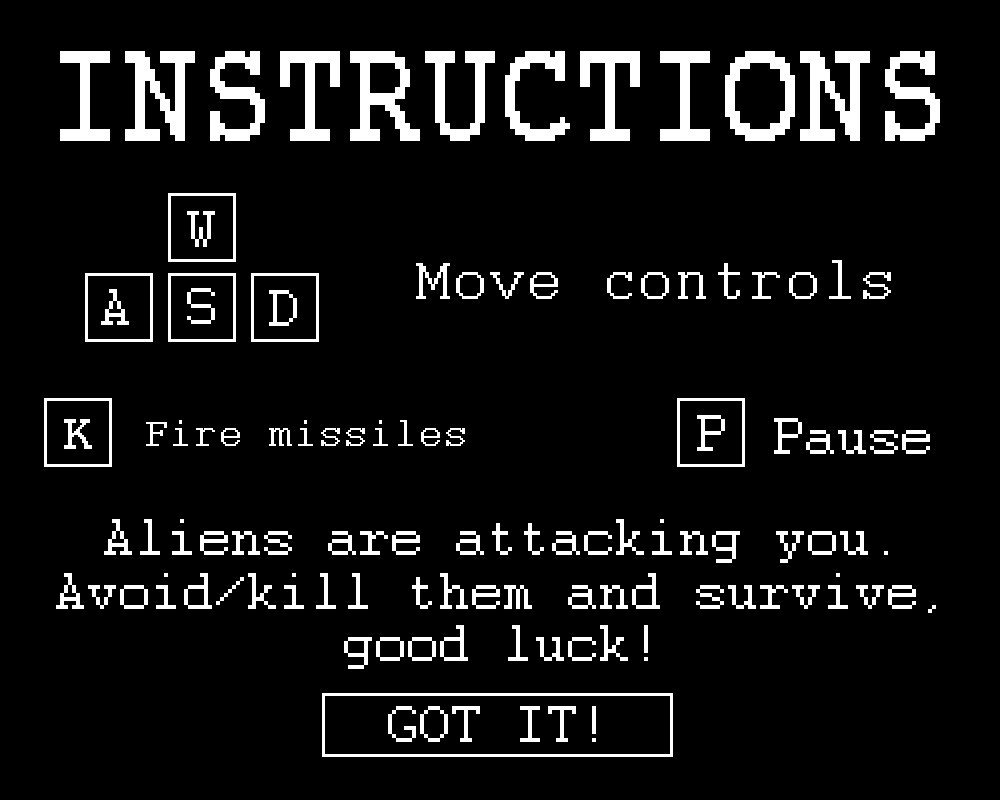
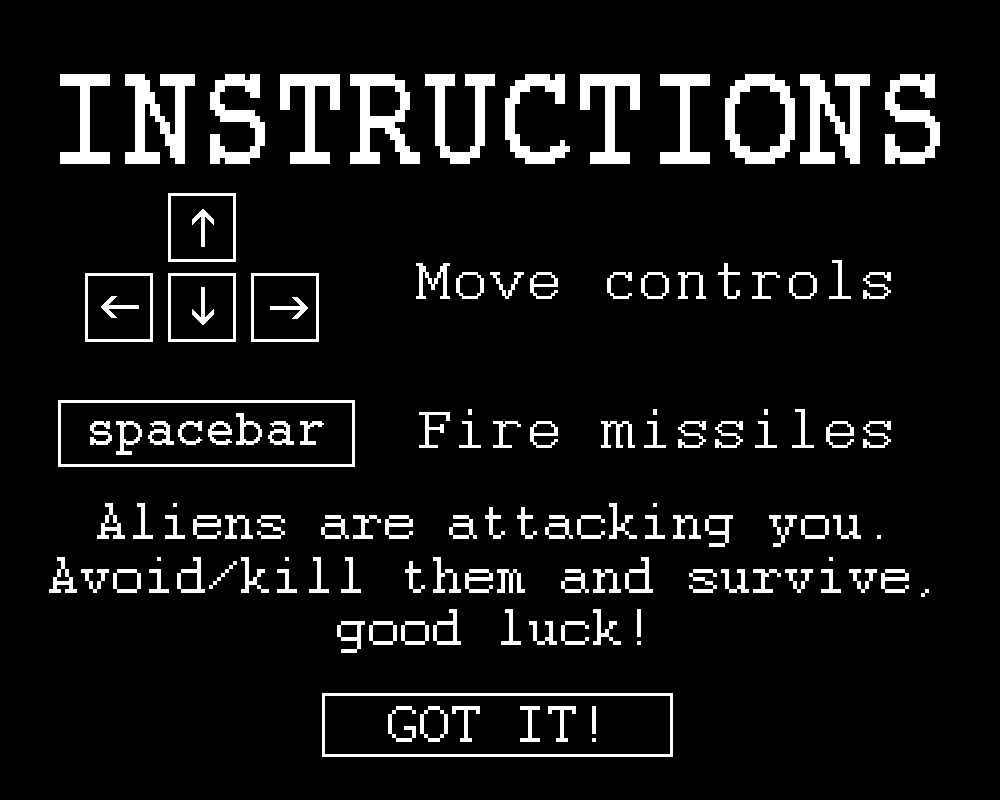
Reverted controls + disable webapp scrolling
Yay!

diff --git a/html/webapp/index.html b/html/webapp/index.html
@@ -1,23 +1,38 @@
 <!doctype html>
 <html>
-  <head>
-    <title>LivingSpace</title>
-    <meta http-equiv="content-type" content="text/html; charset=UTF-8">
-    <link href="styles.css" rel="stylesheet" type="text/css">
-    <script src="soundmanager2-setup.js"></script>
-    <script src="soundmanager2-jsmin.js"></script>
-  </head>
+       <head>
+              <title>LivingSpace</title>
+              <meta http-equiv="content-type" content="text/html; charset=UTF-8">
+              <link href="styles.css" rel="stylesheet" type="text/css">
+              <script src="soundmanager2-setup.js"></script>
+  			  <script src="soundmanager2-jsmin.js"></script>
+       </head>
 
-  <body onkeydown="avoidDefaultKey(event);">
-    <a class="superdev" href="javascript:%7B%20window.__gwt_bookmarklet_params%20%3D%20%7B'server_url'%3A'http%3A%2F%2Flocalhost%3A9876%2F'%7D%3B%20var%20s%20%3D%20document.createElement('script')%3B%20s.src%20%3D%20'http%3A%2F%2Flocalhost%3A9876%2Fdev_mode_on.js'%3B%20void(document.getElementsByTagName('head')%5B0%5D.appendChild(s))%3B%7D">&#8635;</a>
-    <div id="embed-html"></div>
-    <script type="text/javascript" src="html/html.nocache.js"></script>
-    <script type="text/javascript">
-    function avoidDefaultKey(event) {
-        if (event.keyCode == 32 || event.keyCode >= 37 && event.keyCode <= 40) {
-            event.preventDefault();
-        }
-    }
-</script>
-  </body>
+       <body onkeydown="preventUseOfDefaultKeys(event);">
+              <div id="embed-html"></div>
+              <script type="text/javascript" src="html/html.nocache.js"></script>
+       </body>
+
+       <script>
+            function handleMouseDown(evt) {
+				evt.preventDefault();
+                evt.stopPropagation();
+                evt.target.style.cursor = 'default';
+				window.focus();
+              }
+
+            function handleMouseUp(evt) {
+                evt.preventDefault();
+                evt.stopPropagation();
+                evt.target.style.cursor = '';
+              }
+			
+			function preventUseOfDefaultKeys(event) {
+				if (event.keyCode == 32 || (event.keyCode >= 37 && event.keyCode <= 40)) {
+					event.preventDefault();
+				}
+			}
+              document.getElementById('embed-html').addEventListener('mousedown', handleMouseDown, false);
+              document.getElementById('embed-html').addEventListener('mouseup', handleMouseUp, false);
+       </script>
 </html>

diff --git a/core/src/sanoke/livingspace/LevelTemplate.java b/core/src/sanoke/livingspace/LevelTemplate.java
@@ -183,22 +183,21 @@ public abstract class LevelTemplate implements Screen {
 	}
 
 	private void processKeyBoardInputs(float delta) {
-		if (Gdx.input.isKeyPressed(Keys.A)) {
+		if (Gdx.input.isKeyPressed(Keys.LEFT)) {
 			player.moveLeft(delta);
 		}
-		if (Gdx.input.isKeyPressed(Keys.D)) {
+		if (Gdx.input.isKeyPressed(Keys.RIGHT)) {
 			player.moveRight(delta, game.WIDTH);
 		}
-		if (Gdx.input.isKeyPressed(Keys.W)) {
+		if (Gdx.input.isKeyPressed(Keys.UP)) {
 			player.moveForward(delta, game.HEIGHT);
 		}
-		if (Gdx.input.isKeyPressed(Keys.S)) {
+		if (Gdx.input.isKeyPressed(Keys.DOWN)) {
 			player.moveBackward(delta);
 		}
-		if (Gdx.input.isKeyPressed(Keys.K)) {
+		if (Gdx.input.isKeyPressed(Keys.SPACE)) {
 			player.fire();
 		}
-		/* ========== ADDED ========== */
 		if (Gdx.input.isKeyPressed(Keys.P)) {
 			game.pause();
 		}
